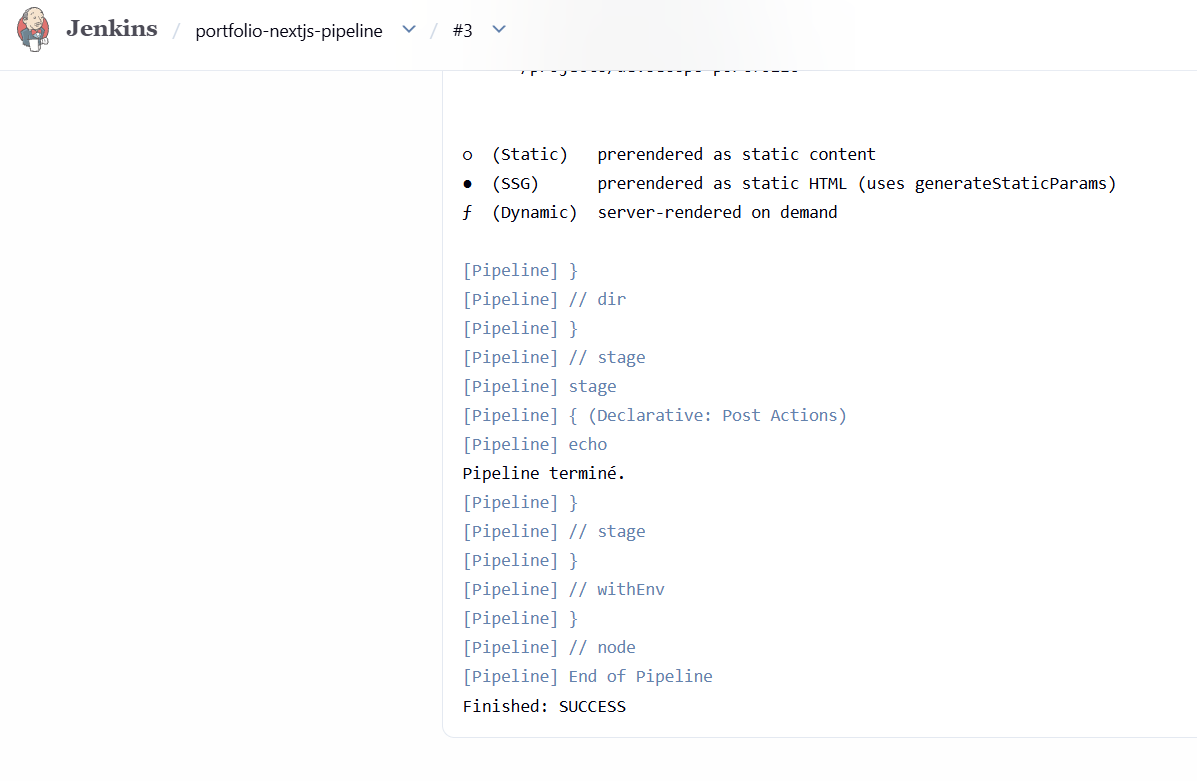
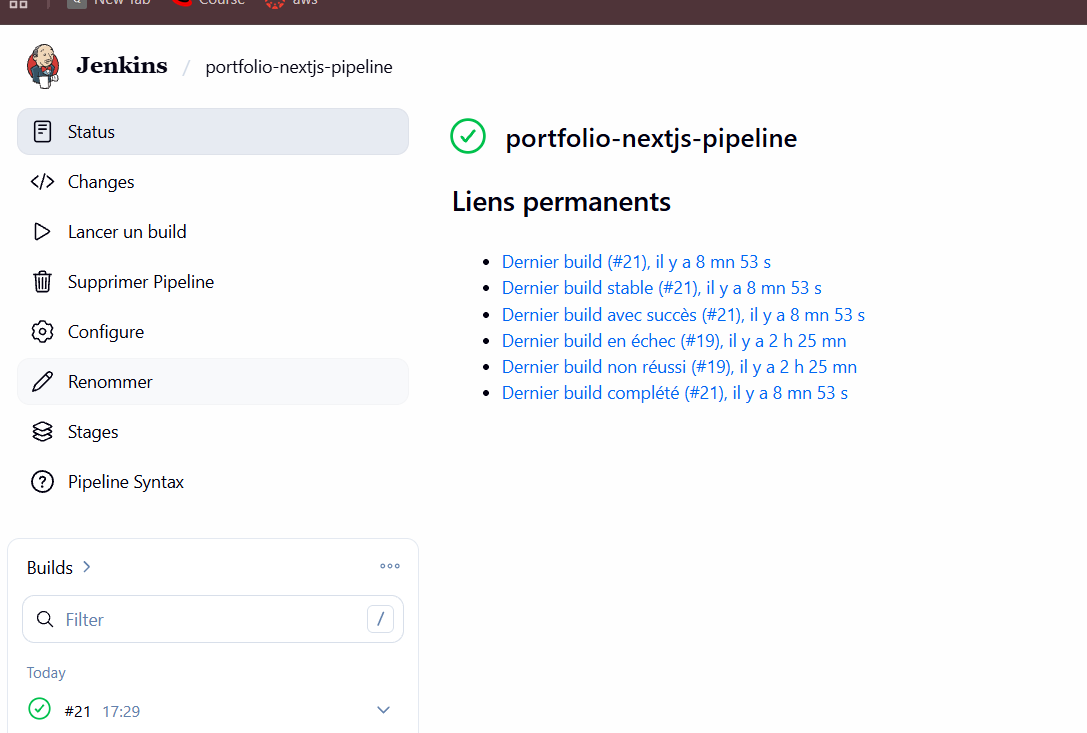
Finalisation du TP DevOps : toutes les activités et captures

diff --git a/README.md b/README.md
@@ -1003,5 +1003,8 @@ Capture du scan Trivy :
 
 Pour vérifier que les contrôles de sécurité bloquent bien un build dangereux, un problème a été introduit volontairement. Le pipeline s'arrête alors en erreur et l'image n'est pas publiée. Après correction, le pipeline repasse au vert.
 
-Capture du pipeline en succès :
+Capture du pipeline en échec :
+![Pipeline en échec](https://github.com/meryemelheni/cv-onepage/blob/main/cv-onepage/screenshots/a4-69-pipeline-echec.png?raw=true)
+
+Capture du pipeline en succès après correction :
 ![Pipeline en succès](https://github.com/meryemelheni/cv-onepage/blob/main/cv-onepage/screenshots/a4-69-pipeline-succes.png?raw=true)
